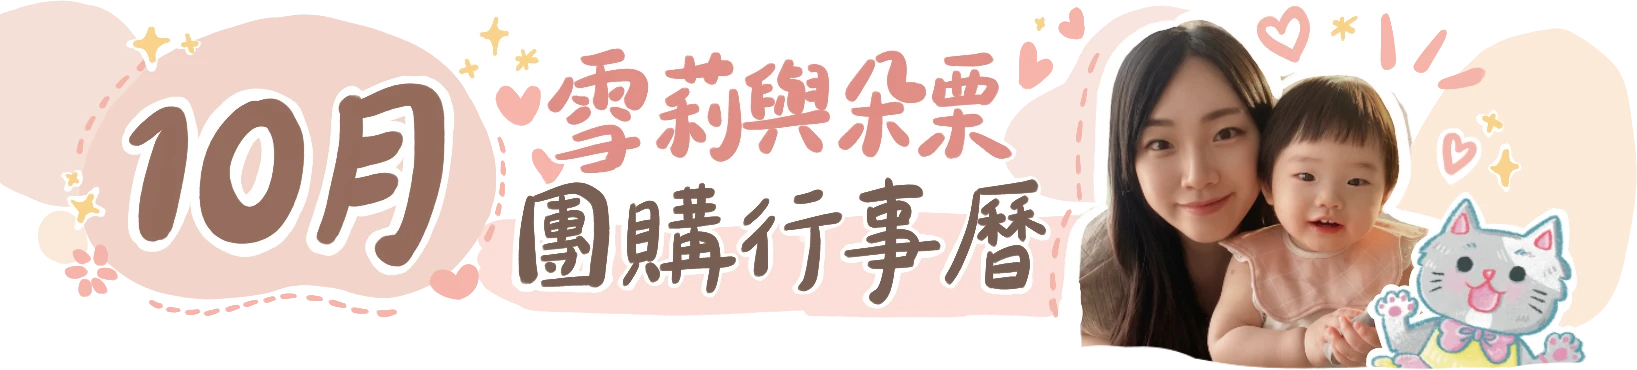
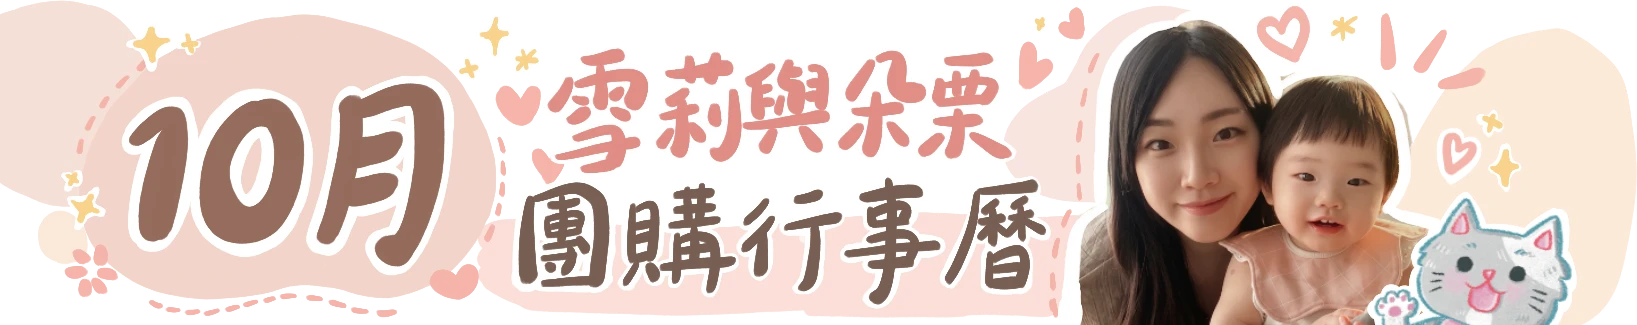
行事曆圖產生器：10月標題圖下緣切平藏到框後、開團列表一律用壓扁版

diff --git a/calendar-poster.html b/calendar-poster.html
@@ -1667,13 +1667,13 @@ function autoFit() {
 }
 
 /* 月份標題圖：images/calendar/title-MM.webp（去背 webp，12 個月 × 標準／壓扁兩款）。
-   壓扁的長條版只在「列表模式 且 本月超過 24 團」時用——那種月份格子多，
-   標題要壓扁才留得下空間。其餘一律標準版，兩款都置中。 */
+   開團列表模式一律用壓扁的長條版（2026-09-30 雪莉定），月曆模式用標準版，兩款都置中。
+   圖的下緣刻意切平：貼齊行事曆框上緣，看起來像藏在框後面。 */
 function titleImgSrc() {
   const mm = String(currentMonth + 1).padStart(2, '0');
-  const slim = (S.mode === 'list' && visibleGroups('list').length > 24);
+  const slim = (S.mode === 'list');
   // ?v= 換標題圖時改日期，避免瀏覽器快取到舊圖
-  return `images/calendar/title-${mm}${slim ? '-slim' : ''}.webp?v=20260930b`;
+  return `images/calendar/title-${mm}${slim ? '-slim' : ''}.webp?v=20260930c`;
 }
 
 function buildHead() {
